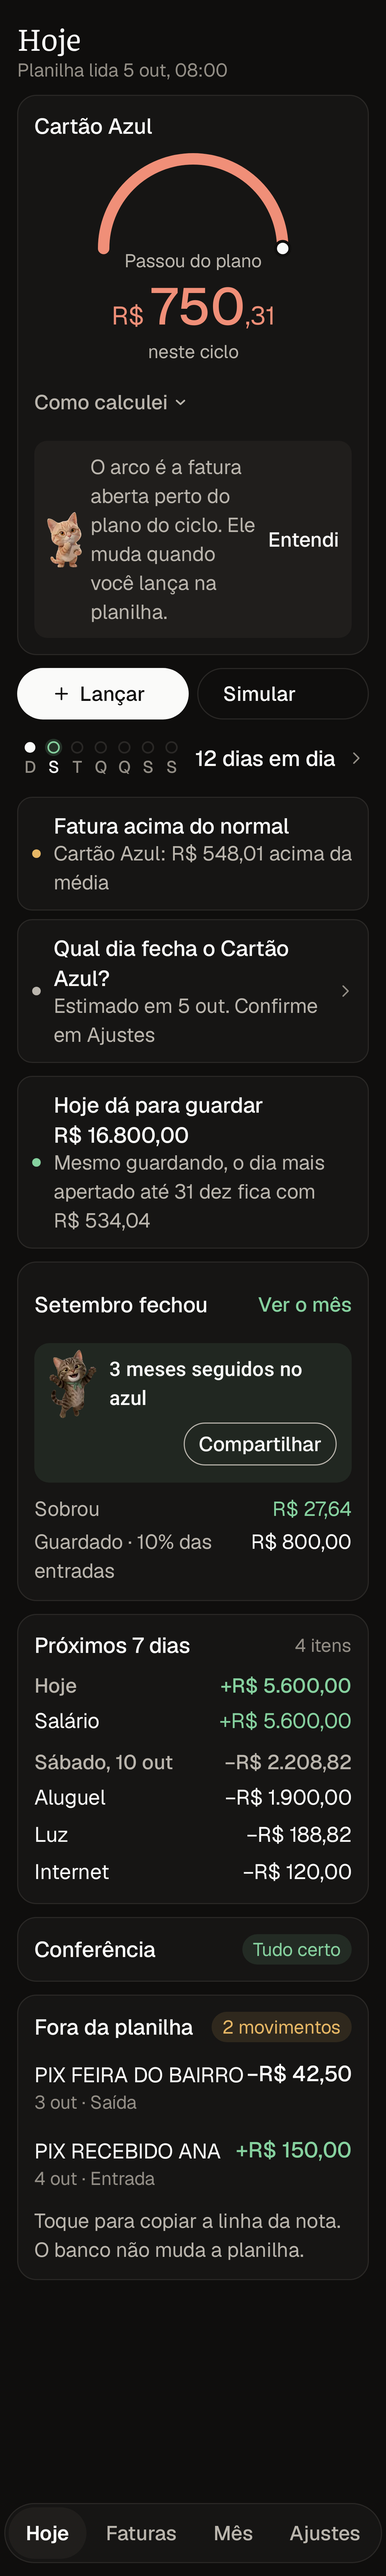
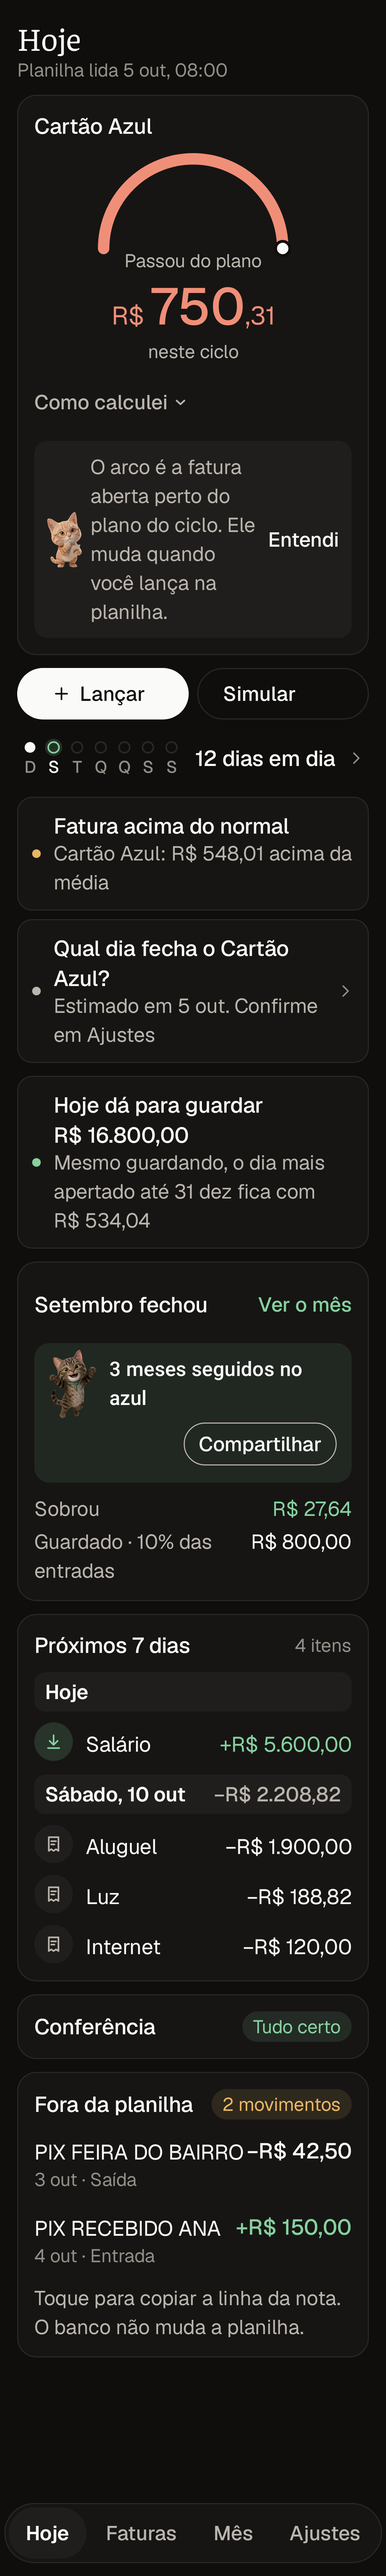
Dá ao "Próximos 7 dias" do Android os ícones e a faixa de cada dia, como no site, e esconde o total de dias com uma linha só (#77)
No Android as linhas eram só nome e valor, sem o ícone (salário, conta, fatura com a marca do banco) e sem a faixa que separa os dias no site. Nas duas versões, um dia com uma linha só repetia o mesmo valor na faixa e na linha; agora o total aparece só quando soma mais de uma.

Claude-Session: https://claude.ai/code/session_015puGdtXzviPEaqxJtpNLAQ

Changed region(s): [[0.0917, 0.6562, 0.9167, 0.9062], [0.3056, 0.6562, 0.4278, 0.7188]]

diff --git a/apps/android/app/src/main/kotlin/dev/johnlaff/neko/ui/HojeScreen.kt b/apps/android/app/src/main/kotlin/dev/johnlaff/neko/ui/HojeScreen.kt
@@ -6,6 +6,7 @@ import android.content.ClipData
 import android.content.ClipboardManager
 import android.content.Intent
 import androidx.compose.foundation.background
+import androidx.compose.ui.text.font.FontWeight
 import androidx.compose.foundation.clickable
 import androidx.compose.foundation.layout.Arrangement
 import androidx.compose.foundation.layout.Box
@@ -423,26 +424,37 @@ private fun Upcoming(v: TodayView) {
 @Composable
 private fun Day(d: UpcomingDay, today: String) {
     val l = LocalLedger.current
-    Column(verticalArrangement = Arrangement.spacedBy(6.dp)) {
-        Row(Modifier.fillMaxWidth(), horizontalArrangement = Arrangement.SpaceBetween) {
-            Text(relativeDay(d.date, today), color = l.muted, style = MaterialTheme.typography.labelLarge)
-            Text(
-                signed(kotlin.math.abs(d.net), if (d.net > 0) '+' else '−'),
-                color = if (d.net > 0) l.pos else l.muted,
-                style = MaterialTheme.typography.labelLarge,
-            )
+    Column(verticalArrangement = Arrangement.spacedBy(10.dp)) {
+        // A band names the day, as on the site; its total only when it adds up more than one line.
+        Row(
+            Modifier.fillMaxWidth().background(l.surface2, RoundedCornerShape(10.dp)).padding(horizontal = 10.dp, vertical = 6.dp),
+            horizontalArrangement = Arrangement.SpaceBetween,
+        ) {
+            Text(relativeDay(d.date, today), style = MaterialTheme.typography.labelLarge.copy(fontWeight = FontWeight.SemiBold))
+            if (d.items.size > 1) {
+                Text(
+                    signed(kotlin.math.abs(d.net), if (d.net > 0) '+' else '−'),
+                    color = if (d.net > 0) l.pos else l.muted,
+                    style = MaterialTheme.typography.labelLarge,
+                )
+            }
         }
         d.items.forEach { u ->
             val income = u.kind == "income"
-            Row(Modifier.fillMaxWidth().semantics(mergeDescendants = true) {}, verticalAlignment = Alignment.CenterVertically) {
-                Text(
-                    u.description.ifBlank { "Sem descrição" },
-                    modifier = Modifier.weight(1f),
-                    maxLines = 2,
-                    overflow = TextOverflow.Ellipsis,
-                )
-                Text(signed(u.amount, if (income) '+' else '−'), color = if (income) l.pos else l.text)
-            }
+            ListRow(
+                name = u.description.ifBlank { "Sem descrição" },
+                value = signed(u.amount, if (income) '+' else '−'),
+                modifier = Modifier.semantics(mergeDescendants = true) {},
+                avatar = "",
+                avatarIcon = when (u.kind) {
+                    "income" -> R.drawable.ic_income
+                    "card" -> R.drawable.ic_card
+                    else -> R.drawable.ic_receipt
+                },
+                card = u.description.takeIf { u.kind == "card" },
+                valueColor = if (income) l.pos else l.text,
+                accent = income,
+            )
         }
     }
 }

diff --git a/apps/neko/src/web/screens/Hoje.tsx b/apps/neko/src/web/screens/Hoje.tsx
@@ -345,9 +345,12 @@ const Days = ({ days, today }: { days: readonly UpcomingDay[]; today: string }) 
       <section key={d.date} className="day" aria-label={relativeDay(d.date, today)}>
         <header className="day-head">
           <h3>{relativeDay(d.date, today)}</h3>
-          <span className={d.net > 0 ? "pos" : undefined}>
-            {signed(Math.abs(d.net), d.net > 0 ? "+" : "−")}
-          </span>
+          {/* The day's total only adds up more than one line; with one, it repeated the row. */}
+          {d.items.length > 1 && (
+            <span className={d.net > 0 ? "pos" : undefined}>
+              {signed(Math.abs(d.net), d.net > 0 ? "+" : "−")}
+            </span>
+          )}
         </header>
         <ul className="rows lead">
           {d.items.map((u) => {

diff --git a/apps/android/app/src/test/kotlin/dev/johnlaff/neko/ScreenshotTest.kt b/apps/android/app/src/test/kotlin/dev/johnlaff/neko/ScreenshotTest.kt
@@ -120,6 +120,10 @@ class ScreenshotTest {
         AjustesScreen(ScreenState(ajustes), SaveState.Saved, {}, {}, {}, RemindersSwitch(on = true), Fakes.devices, LockSwitch(on = true))
     }
 
+    @Test fun proximosDark() = shot("proximos-dark", night = true, scrollTo = "Próximos 7 dias") {
+        HojeScreen(TodayState(view), {}, {})
+    }
+
     // The bank's parts sit at the end of each screen: scrolled there, as the owner would.
     @Test fun bancoHojeLight() = shot("banco-hoje-light", night = false, scrollTo = "Fora da planilha") {
         HojeScreen(TodayState(view), {}, {})
